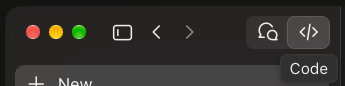
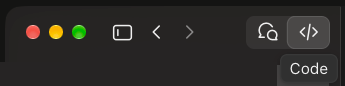
fix(setup): crop desktop Code button, plain line
Problem: The Code-button picture showed half of the New row, a second
unused copy of it was committed, and the line under it ran long.

Solution: One picture, cropped to the window buttons and the Code
tooltip; the line now reads that setup only works in the Code tab.

Context: Follows the desktop app option on the setup page.

Changed region(s): [[0.029, 0.7442, 0.8116, 1.0]]

diff --git a/setup/index.html b/setup/index.html
@@ -177,7 +177,7 @@ pre.out{white-space:pre-wrap;font:13px/1.5 ui-monospace,Menlo,monospace;backgrou
   <label class="radio"><input type="checkbox" name="where" value="Claude desktop app"> Claude desktop app, Code tab</label>
   <label class="radio"><input type="checkbox" name="where" value="Terminal"> Claude Code in a terminal</label>
 </div>
-<div class="desk-tip"><img src="img/desktop-code-tab.png" alt="The Code button at the top left of the Claude desktop app"><p class="sub" style="margin:0">In the desktop app, click <b>Code</b> at the top left. The chat side can't install any of this.</p></div>
+<div class="desk-tip"><img src="img/desktop-code-tab.png" alt="The Code button at the top left of the Claude desktop app"><p class="sub" style="margin:0">Setup only works in the <b>Code</b> tab, not the chat.</p></div>
 </div></div>
 
 <h2>Pick your pieces</h2>
